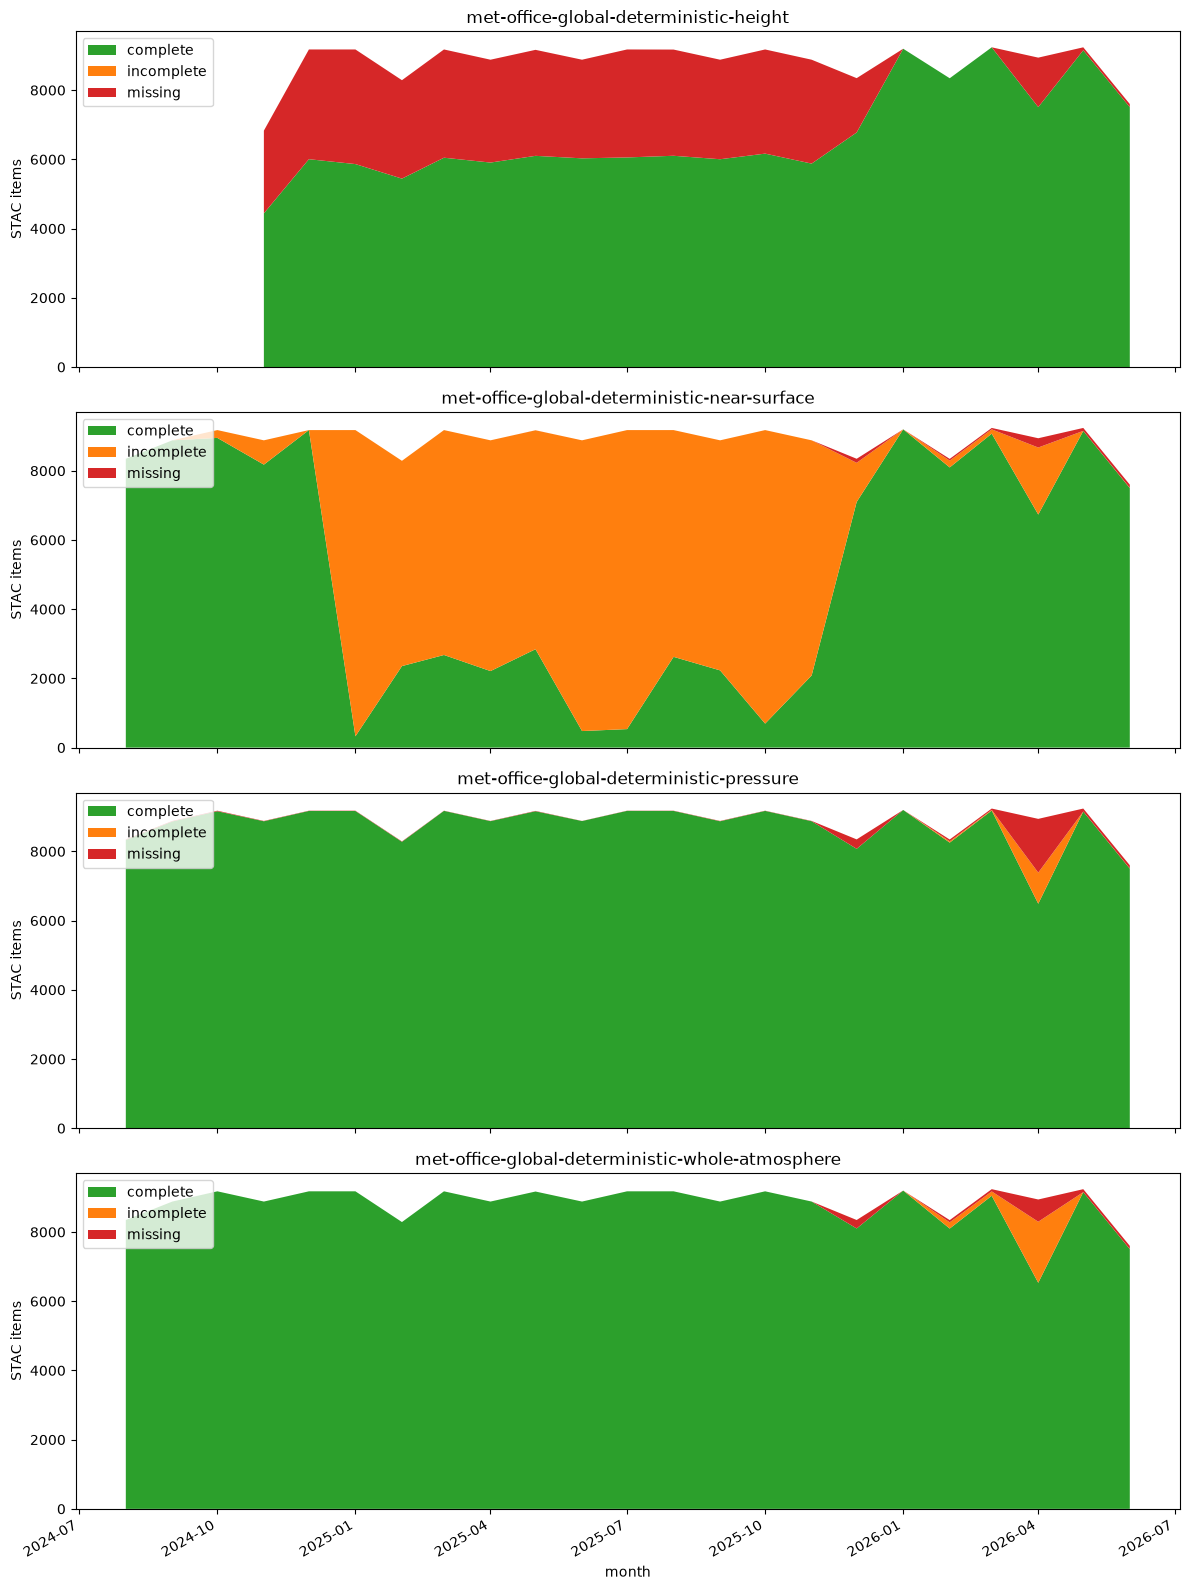
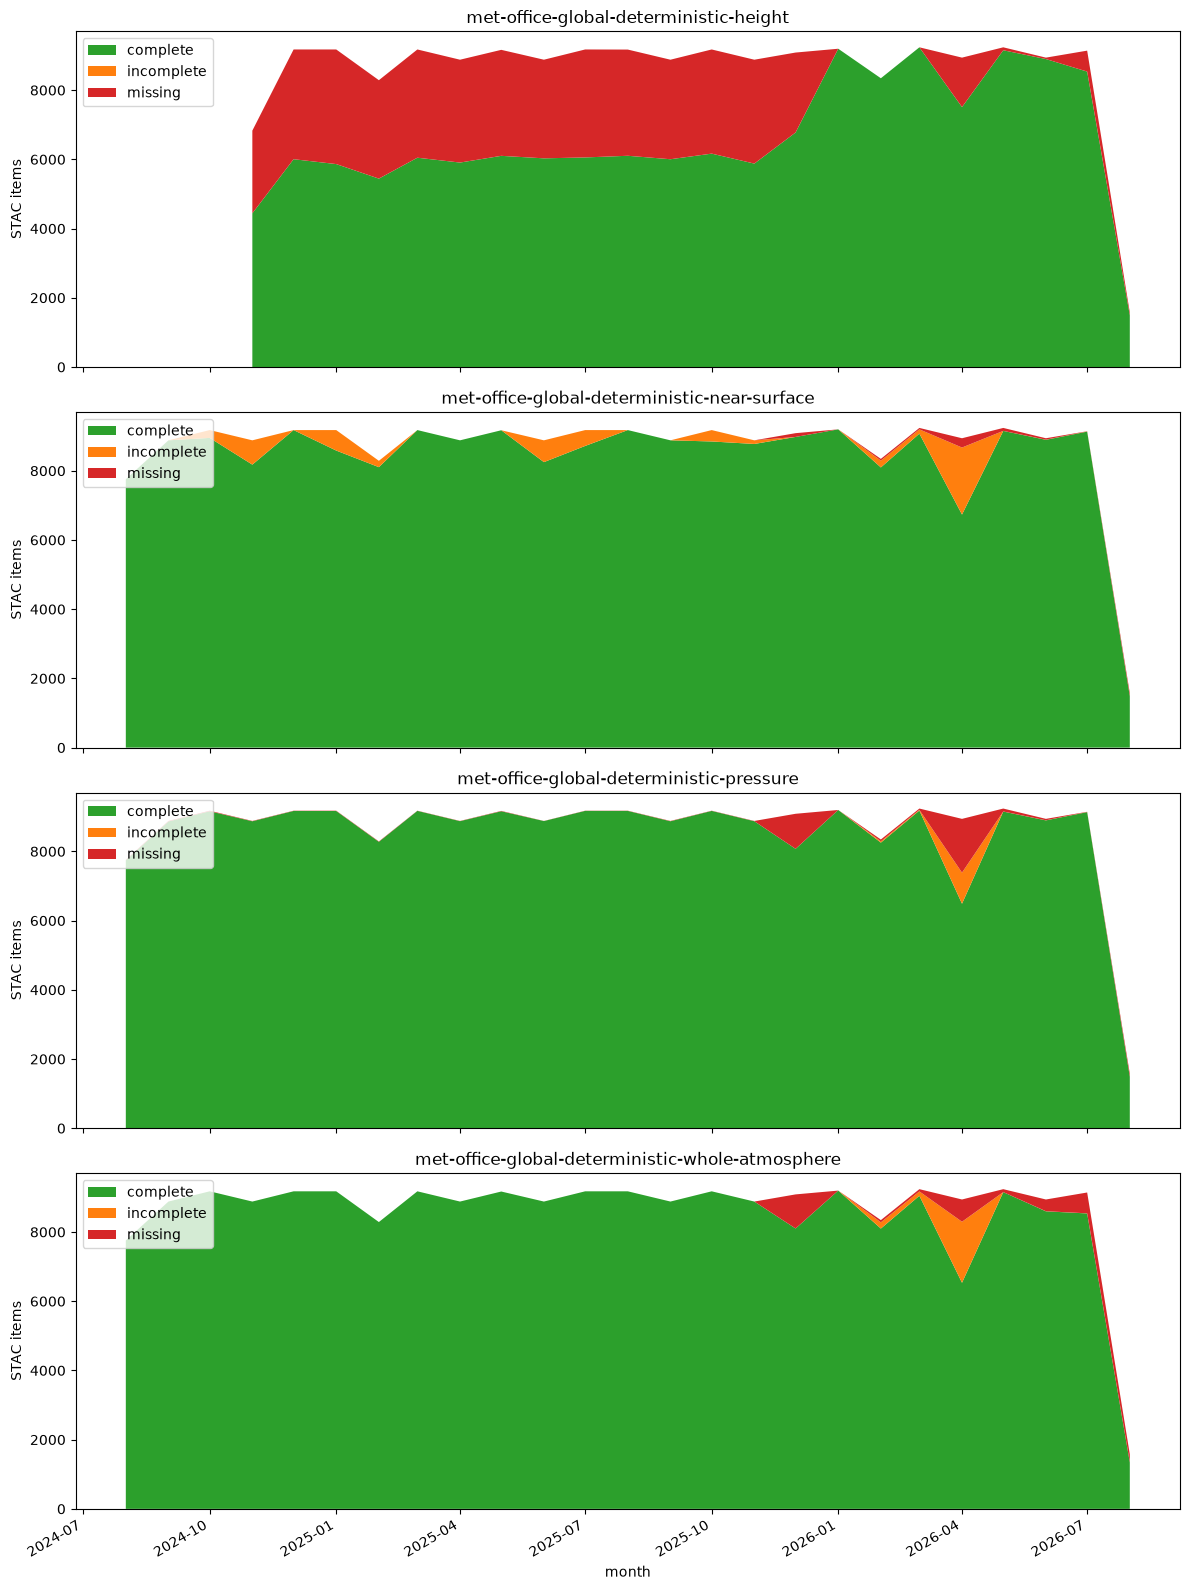
fix: update global

diff --git a/check.md b/check.md
@@ -139,23 +139,7 @@ monthly
       <td>...</td>
     </tr>
     <tr>
-      <th>84</th>
-      <td>met-office-global-deterministic-whole-atmosphere</td>
-      <td>2026-02-01</td>
-      <td>64.0</td>
-      <td>180.0</td>
-      <td>8100.0</td>
-    </tr>
-    <tr>
-      <th>85</th>
-      <td>met-office-global-deterministic-whole-atmosphere</td>
-      <td>2026-03-01</td>
-      <td>65.0</td>
-      <td>126.0</td>
-      <td>9047.0</td>
-    </tr>
-    <tr>
-      <th>86</th>
+      <th>92</th>
       <td>met-office-global-deterministic-whole-atmosphere</td>
       <td>2026-04-01</td>
       <td>643.0</td>
@@ -163,7 +147,7 @@ monthly
       <td>6533.0</td>
     </tr>
     <tr>
-      <th>87</th>
+      <th>93</th>
       <td>met-office-global-deterministic-whole-atmosphere</td>
       <td>2026-05-01</td>
       <td>85.0</td>
@@ -171,16 +155,32 @@ monthly
       <td>9153.0</td>
     </tr>
     <tr>
-      <th>88</th>
+      <th>94</th>
       <td>met-office-global-deterministic-whole-atmosphere</td>
       <td>2026-06-01</td>
-      <td>91.0</td>
+      <td>339.0</td>
       <td>3.0</td>
-      <td>7505.0</td>
+      <td>8598.0</td>
+    </tr>
+    <tr>
+      <th>95</th>
+      <td>met-office-global-deterministic-whole-atmosphere</td>
+      <td>2026-07-01</td>
+      <td>602.0</td>
+      <td>3.0</td>
+      <td>8537.0</td>
+    </tr>
+    <tr>
+      <th>96</th>
+      <td>met-office-global-deterministic-whole-atmosphere</td>
+      <td>2026-08-01</td>
+      <td>231.0</td>
+      <td>5.0</td>
+      <td>1343.0</td>
     </tr>
   </tbody>
 </table>
-<p>89 rows × 5 columns</p>
+<p>97 rows × 5 columns</p>
 </div>
 
 
@@ -262,31 +262,31 @@ con.sql(r"""
       <th>0</th>
       <td>met-office-global-deterministic-height</td>
       <td>cloud_amount_on_height_levels</td>
-      <td>41982</td>
+      <td>43360</td>
     </tr>
     <tr>
       <th>1</th>
       <td>met-office-global-deterministic-near-surface</td>
-      <td>fog_fraction_at_screen_level</td>
-      <td>27552</td>
+      <td>wind_direction_at_10m</td>
+      <td>2604</td>
     </tr>
     <tr>
       <th>2</th>
       <td>met-office-global-deterministic-near-surface</td>
-      <td>wind_direction_at_10m</td>
-      <td>27496</td>
+      <td>wind_speed_at_10m</td>
+      <td>2604</td>
     </tr>
     <tr>
       <th>3</th>
       <td>met-office-global-deterministic-near-surface</td>
       <td>wind_gust_at_10m</td>
-      <td>27471</td>
+      <td>2590</td>
     </tr>
     <tr>
       <th>4</th>
       <td>met-office-global-deterministic-near-surface</td>
-      <td>snowfall_rate</td>
-      <td>27442</td>
+      <td>snow_depth_water_equivalent</td>
+      <td>2586</td>
     </tr>
     <tr>
       <th>...</th>
@@ -298,31 +298,31 @@ con.sql(r"""
       <th>66</th>
       <td>met-office-global-deterministic-whole-atmosphere</td>
       <td>cloud_amount_of_medium_cloud</td>
-      <td>2471</td>
+      <td>4296</td>
     </tr>
     <tr>
       <th>67</th>
       <td>met-office-global-deterministic-whole-atmosphere</td>
       <td>cloud_amount_of_low_cloud</td>
-      <td>2470</td>
+      <td>4295</td>
     </tr>
     <tr>
       <th>68</th>
       <td>met-office-global-deterministic-whole-atmosphere</td>
       <td>cloud_amount_of_total_cloud</td>
-      <td>2468</td>
+      <td>4293</td>
     </tr>
     <tr>
       <th>69</th>
       <td>met-office-global-deterministic-whole-atmosphere</td>
       <td>cloud_amount_of_total_convective_cloud</td>
-      <td>2465</td>
+      <td>4290</td>
     </tr>
     <tr>
       <th>70</th>
       <td>met-office-global-deterministic-whole-atmosphere</td>
       <td>temperature_at_tropopause</td>
-      <td>2459</td>
+      <td>4282</td>
     </tr>
   </tbody>
 </table>
